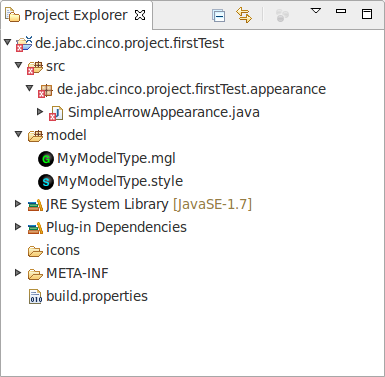
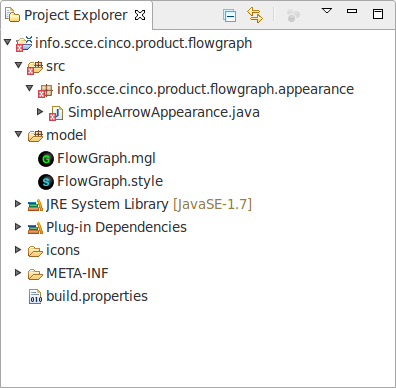
started updating to v. 0.5

Changed region(s): [[0.0, 0.0, 0.9974, 0.817], [0.8104, 0.0, 0.8416, 0.0292]]

diff --git a/manual/cinco-manual.tex b/manual/cinco-manual.tex
@@ -73,7 +73,7 @@ This document will constantly be revised and extendend. The latest version will
 always be available for download at \url{http://cinco.scce.info}. 
 
 \begin{description}
-\item[covered version] \cinco v. 0.4
+\item[covered version] \cinco v. 0.5
 \item[git commit id] \gitAbbrevHash{}
 \item[date of build] \today
 \end{description}
@@ -165,16 +165,35 @@ big empty grey space on the right) are the most important ones.
 \begin{figure}
 	\centering
 	\includegraphics[width=.5\textwidth]{screenshots/new-cp-wizard.png}
-	\caption{Use the wizard to create new project}
+	\caption{Use the wizard to create a new example project}
 	\label{fig:cpWizard}
 \end{figure}
 
 To get a new \newnotion{Cinco Product} project initialized, we'll now use the
-built-in wizard that also creates some example files to start working with.
+built-in wizard to create some example files to start working with.
 Right-click somewhere within the \gui{Project Explorer} and choose \gui{New / Cinco Product
-Project}. The wizard as depicted in Fig.~\ref{fig:cpWizard} appears. Fill the
-form fields to your liking and click \gui{Finish}.
-%TODO: comment by SW: it is not apparent what those form fields are for, especially the model name
+Project}. The wizard as depicted in Fig.~\ref{fig:cpWizard} appears. The wizard
+has two modes. You can either start a completely new project from scratch or
+generate an example project showing off some of the Cinco features. We'll go for
+the latter one for now. Select \gui{Initialize Example Project (Feature
+Showcase)} and hit \gui{Next}. 
+
+\begin{figure}
+	\centering
+	\includegraphics[width=.5\textwidth]{screenshots/new-cp-wizard2.png}
+	\caption{Select example features that shall be generated}
+	\label{fig:cpWizard2}
+\end{figure}
+
+The next page of the wizard now lets you configure some basic things for your
+example project (cf. Fig.~\ref{fig:cpWizard2}). Please note that the model name
+is fixed, as the generated example is a flow graph. For now, you probably should leave
+the project/package name as suggested; if you create additional examples with
+the wizard later, you can choose different names here to distinguish them. Each
+feature you select at the bottom will generate additional parts in the example.
+We suggest to use \gui{Icons} and \gui{Appearance provider} to keep the files
+manageable small for your first attempt in using \cinco{}. Confirm your
+selection with \gui{Finish}
 
 \begin{figure}
 	\centering
@@ -202,7 +221,7 @@ You might want to take a short look into those initialized files (especially the
 \code{model} folder), but before we delve more deeply
 into their contents (which we will do
 in Sec.~\ref{sec:examplefiles}), let's first generate this example CP and give
-it a try. Just right-click on the \mgl{MyModelType.mgl}\footnotemark{} and
+it a try. Just right-click on the \mgl{FlowGraph.mgl} and
 choose \gui{Generate Cinco Product}. Shortly after, your project explorer should
 look like Fig.~\ref{fig:cpPostGen}. Several new files, directories and a new
 project -- which will be even more than one once you start using advanced
@@ -212,12 +231,7 @@ compile error we've noticed before is gone.
 Whenever you change the CP's specification files, you need to re-generate the
 code. Sometimes you also need to delete all the generated code, e.g. when
 deleting or renaming a node type. But as you never do any manual changes to the
-generated code, this is no problem.
-
-\footnotetext{Again, depending on the names you've chosen in the wizard,
-the file might be named differently. From now on, we describe everything as if
-you had filled the form according to Fig.~\ref{fig:cpWizard}. Please adapt to
-your chosen names accordingly.}
+generated code, this is no problem. 
 
 \subsection{Testing the \cinco Product}
 
@@ -243,23 +257,23 @@ another \cinco product within the just started \cinco product). A plain project
 is enough this time. Right-click somewhere in the project explorer and select
 \gui{New / Project... / General / Project / Next >}, give the project some name
 and click \gui{Finish}. Then, right-click on your newly created project and
-select \gui{New / Other... / Cinco Product / New MyModelType} to create your
+select \gui{New / Other... / Cinco Product / New FlowGraph} to create your
 first CP-specific model.
 
 The editor area now shows your empty model with a drawing grid. On the right
-side you see a \gui{Palette}, containing the tools you can now use for modeling.
-But before you can go for it, you need to activate one additional view:
-\gui{Window / Show View / Properties}.
-
-The elements you should start with are the ones in the \gui{Palette / Objects}
-category: \code{Start}, \code{End}, and \code{Inner}. Those are the three node
-types that are were automatically included in the \mgl{MyModelType.mgl} by the
+side you see a \gui{Palette}, containing the elements you can now use for modeling.
+The elements you see there are in the \gui{Palette / Objects}
+category: \code{Start}, \code{End}, and \code{Activity}. Those are the three node
+types that are were automatically included in the \mgl{FlowGraph.mgl} by the
 wizard. Begin modeling by just drag\&dropping a few different nodes into the
-modeling area. To connect nodes, you can either use the tools from the
-\gui{Palette / Connection} category, or hover over a node and drag the small
-appearing arrow icon onto a target node. For the \code{Inner} node type and the
-edges originating from them, you can use the properties view to set a
-\code{Text}, or \code{Label} attribute, respectively. Fig.~\ref{fig:firstModel} shows an example how your tool should look now.
+modeling area. To connect nodes, you can just hover over a node and drag the small
+appearing arrow icon onto a target node. For the \code{Activity} node type and
+the edges originating from them, you can use the \gui{Properties} view (bottom
+of your window) to set attributes; \code{Name} and \code{Description} for the
+node as well as \code{Label} for the edge. An activity's name is displayed
+within the node shape (the blue box) and the edge label is shown as a floating
+(and movable) textbox next to the edge. Fig.~\ref{fig:firstModel} shows an
+example how your tool should look now.
 
 \begin{figure}
 	\centering
